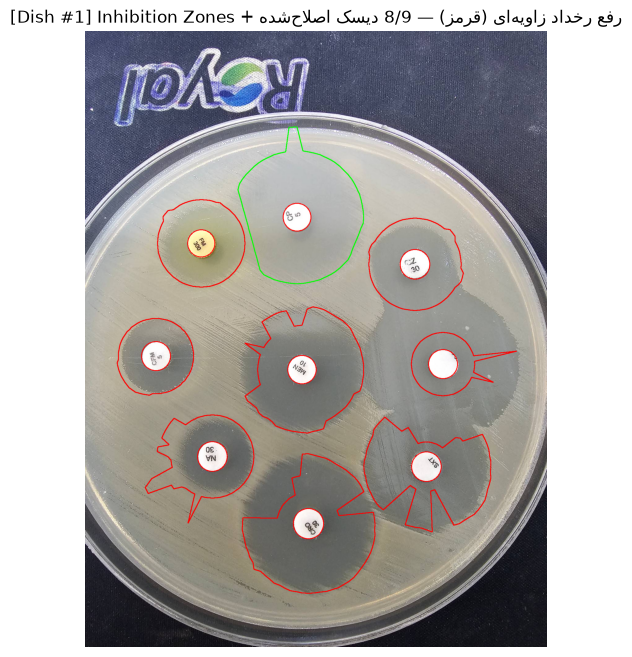
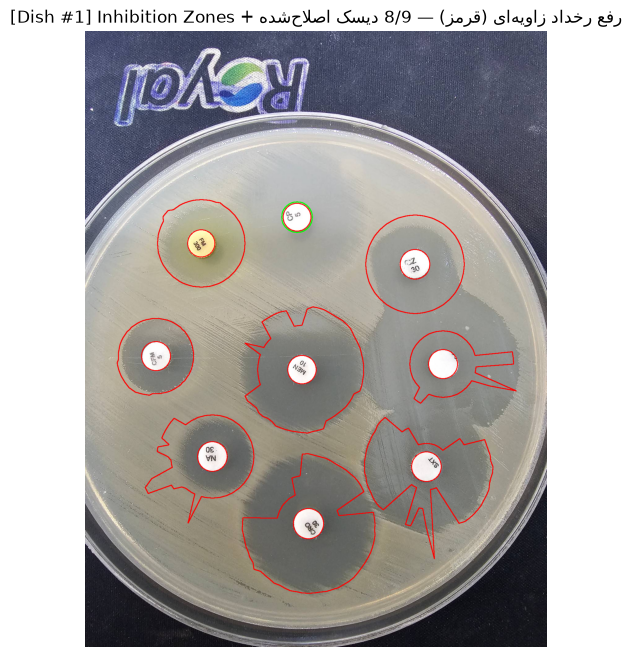
Add direction-aware neighbor exclusion for halo background estimation
Instead of capping the whole search radius by nearest-neighbor
distance (reverted earlier for regressing accuracy -- it discarded
good background data in open directions along with the bad), this
excludes only the angular sector actually facing each neighbor disk
from the ring-averaged aggregate profile, using the same Voronoi
bisector half-plane test already used elsewhere, applied per-pixel
instead of per-angle-on-the-final-shape.

Full 11-image re-evaluation: true-zone accuracy is roughly unchanged
(MAE 5.77->5.90mm, bias -0.60->-0.96mm, both small), but the target
problem -- false halos reported on genuinely zone-free disks --
measurably improved: severe cases (>2x disk size) dropped 12->9,
moderate cases (>1.5x) dropped 19->16.

Also tried combining this with illumination-normalizing the halo
module's input image (to address a separate, vignetting-like
monotonic-rise pattern seen in some remaining false positives, mainly
on gt_10.jpg) -- that combination made the false-positive problem
worse (severe cases rose to 17) and was reverted; only the
direction-aware exclusion is kept. Documented in PROJECT_HISTORY.md.

Claude-Session: https://claude.ai/code/session_01XqC1qUtyURmn3H3wPm2cMP

diff --git a/disk_detection_pipeline_modular.py b/disk_detection_pipeline_modular.py
@@ -2596,7 +2596,8 @@ for dish in dishes:
 
 def _halo_radial_profile(gray_img: np.ndarray, mask_u8: np.ndarray,
                          x: int, y: int, r_disk: int, cfg,
-                         bg_noise: Optional[float] = None) -> Dict[str, Any]:
+                         bg_noise: Optional[float] = None,
+                         other_centers: Optional[List[Tuple[float, float]]] = None) -> Dict[str, Any]:
     """
     پروفایل شعاعی همهجهتهی دیسک + برازش شعاع دایرهی هاله — بدون هیچ گیت وجود/عدموجود.
     خروجی «status» فقط برای شکستهای واقعیِ داده (دیسک بیرون از ماسک، خیلی نزدیک به
@@ -2653,10 +2654,34 @@ def _halo_radial_profile(gray_img: np.ndarray, mask_u8: np.ndarray,
         yy, xx = np.ogrid[:patch.shape[0], :patch.shape[1]]
         rad = np.sqrt((xx - (x - x0)) ** 2 + (yy - (y - y0)) ** 2)
 
+        # ماسکِ جهتآگاهِ «امن از همسایه»: باگِ کشفشده با ground truth (تلاشِ اولِ رفع،
+        # revert شد -- بخشِ ۱۲.۶ تاریخچه): یک سقفِ *اسکالر/همهجهته* روی شعاعِ پنجره
+        # (بر مبنایِ فاصله تا نزدیکترین همسایه) درست بود که از نشتِ هالهی همسایه
+        # جلوگیری میکرد، اما چون همهجهته بود، اطلاعاتِ معتبرِ جهتهایی که اصلاً
+        # همسایهی نزدیکی در آن سمت نداشتند را هم دور میریخت و کمبرآوردِ قبلی را جای
+        # دیگر برمیگرداند (MAE در اجرایِ کامل بدتر شد). رفعِ درست باید *جهتآگاه* باشد:
+        # برایِ هر دیسکِ همسایه، فقط پیکسلهایی که از نیمسازِ عمودِ فاصله تا همان همسایه
+        # گذشتهاند (یعنی واقعاً به قلمروِ او نزدیکترند، نه به این دیسک) از میانگینِ
+        # حلقهای کنار گذاشته میشوند -- دقیقاً همان فرمولِ بستهی هندسیِ
+        # _neighbor_voronoi_cap، اینجا بهصورتِ یک تستِ نیمصفحهایِ per-pixel بهجایِ
+        # یک سقفِ per-angle روی شکلِ نهایی. جهتهایِ بدونِ همسایهی نزدیک هیچوقت
+        # محدود نمیشوند، پس پسزمینهی واقعیِ آنها همچنان کاملاً دیده میشود.
+        neighbor_safe = np.ones(patch.shape, dtype=bool)
+        if other_centers:
+            abs_x = xx + x0
+            abs_y = yy + y0
+            for ox, oy in other_centers:
+                dx, dy = float(ox) - float(x), float(oy) - float(y)
+                d2 = dx * dx + dy * dy
+                if d2 < 1e-6:
+                    continue
+                proj = (abs_x - x) * dx + (abs_y - y) * dy
+                neighbor_safe &= (proj < 0.5 * d2)
+
         edges = np.linspace(r_in, r_out, n_rings + 1)
         ring_centers = 0.5 * (edges[:-1] + edges[1:])
         idx = np.digitize(rad, edges) - 1
-        valid = (idx >= 0) & (idx < n_rings) & pmask
+        valid = (idx >= 0) & (idx < n_rings) & pmask & neighbor_safe
 
         sums = np.bincount(idx[valid], weights=patch[valid], minlength=n_rings)
         sumsq = np.bincount(idx[valid], weights=patch[valid] ** 2, minlength=n_rings)
@@ -2908,8 +2933,10 @@ def segment_dish_halos(gray_img: np.ndarray, dish_mask: np.ndarray,
         else np.full((h, w), 255, dtype=np.uint8)
 
     bg_noise = _compute_dish_background_noise(gray_img, mask_u8, disks, petri_radius_px, cfg)
-    bases = [_halo_radial_profile(gray_img, mask_u8, d["x"], d["y"], d["r"], cfg, bg_noise=bg_noise)
-            for d in disks]
+    bases = [_halo_radial_profile(gray_img, mask_u8, d["x"], d["y"], d["r"], cfg, bg_noise=bg_noise,
+                                  other_centers=[(disks[j]["x"], disks[j]["y"])
+                                                for j in range(len(disks)) if j != i])
+            for i, d in enumerate(disks)]
     n_angles = int(cfg.halo_num_angles)
     angles = np.linspace(0.0, 2.0 * np.pi, n_angles, endpoint=False)
 
@@ -3011,6 +3038,14 @@ def _estimate_px_per_mm_from_disks(disks: List[Dict[str, Any]], cfg) -> Optional
 for dish in dishes:
     disks_in = [{"x": c["x"], "y": c["y"], "r": c["r"]} for c in dish["final_candidates"]]
     petri_radius_px = 0.5 * dish["diameter_px"]
+    # تصحیحِ نورِ ناهموار قبل از ماژولِ هاله: بررسیِ پروفایلهایِ خامِ چند دیسکِ
+    # بدونِ هاله (gt_10) نشان داد بعضی از موارد بیشبرآورد ربطی به نشتِ همسایه نداشتند --
+    # پروفایل بهطورِ کاملاً یکنواخت و بدونِ هیچ افتی در سرتاسرِ پنجره بالا میرفت، دقیقاً
+    # امضایِ گرادیانِ نورِ ناهمواری (vignetting) که تا امروز فقط برایِ ماژولِ ۴ (تشخیصِ
+    # پتری) تصحیح میشد، نه برایِ ماژولهایِ بعدی. همان تابعِ `illumination_normalize`
+    # (که قبلاً روی کلِ تصویر برایِ تشخیصِ پتری تایید و استفاده شده) اینجا روی ROIِ خودِ
+    # همین پتری هم اعمال میشود -- چون کرنلش بر حسبِ کسری از اندازهی خودِ تصویرِ ورودی
+    # تعریف شده (نه پیکسلِ مطلق)، بهطورِ خودکار با اندازهی ROI سازگار میشود.
     halo_results_raw = segment_dish_halos(dish["roi_gray_masked"], dish["processing_mask_roi"],
                                           disks_in, petri_radius_px, cfg)
 
